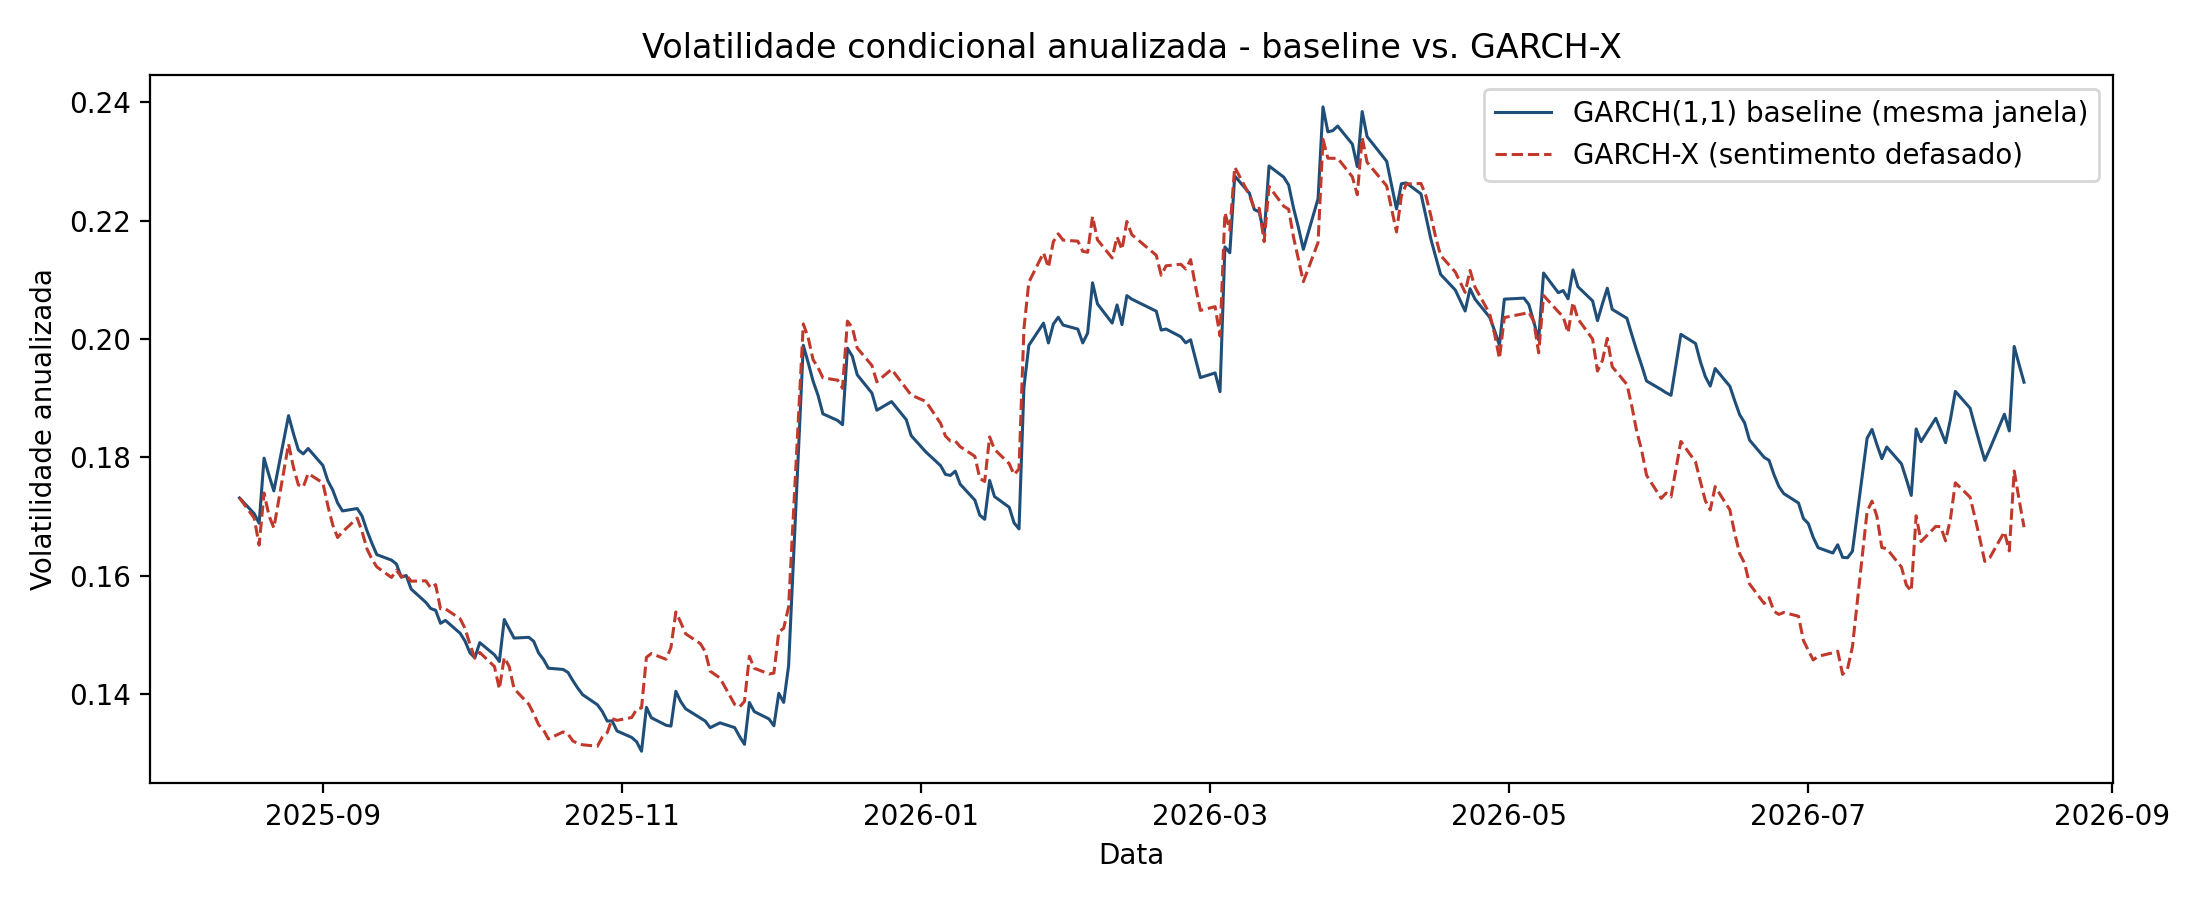
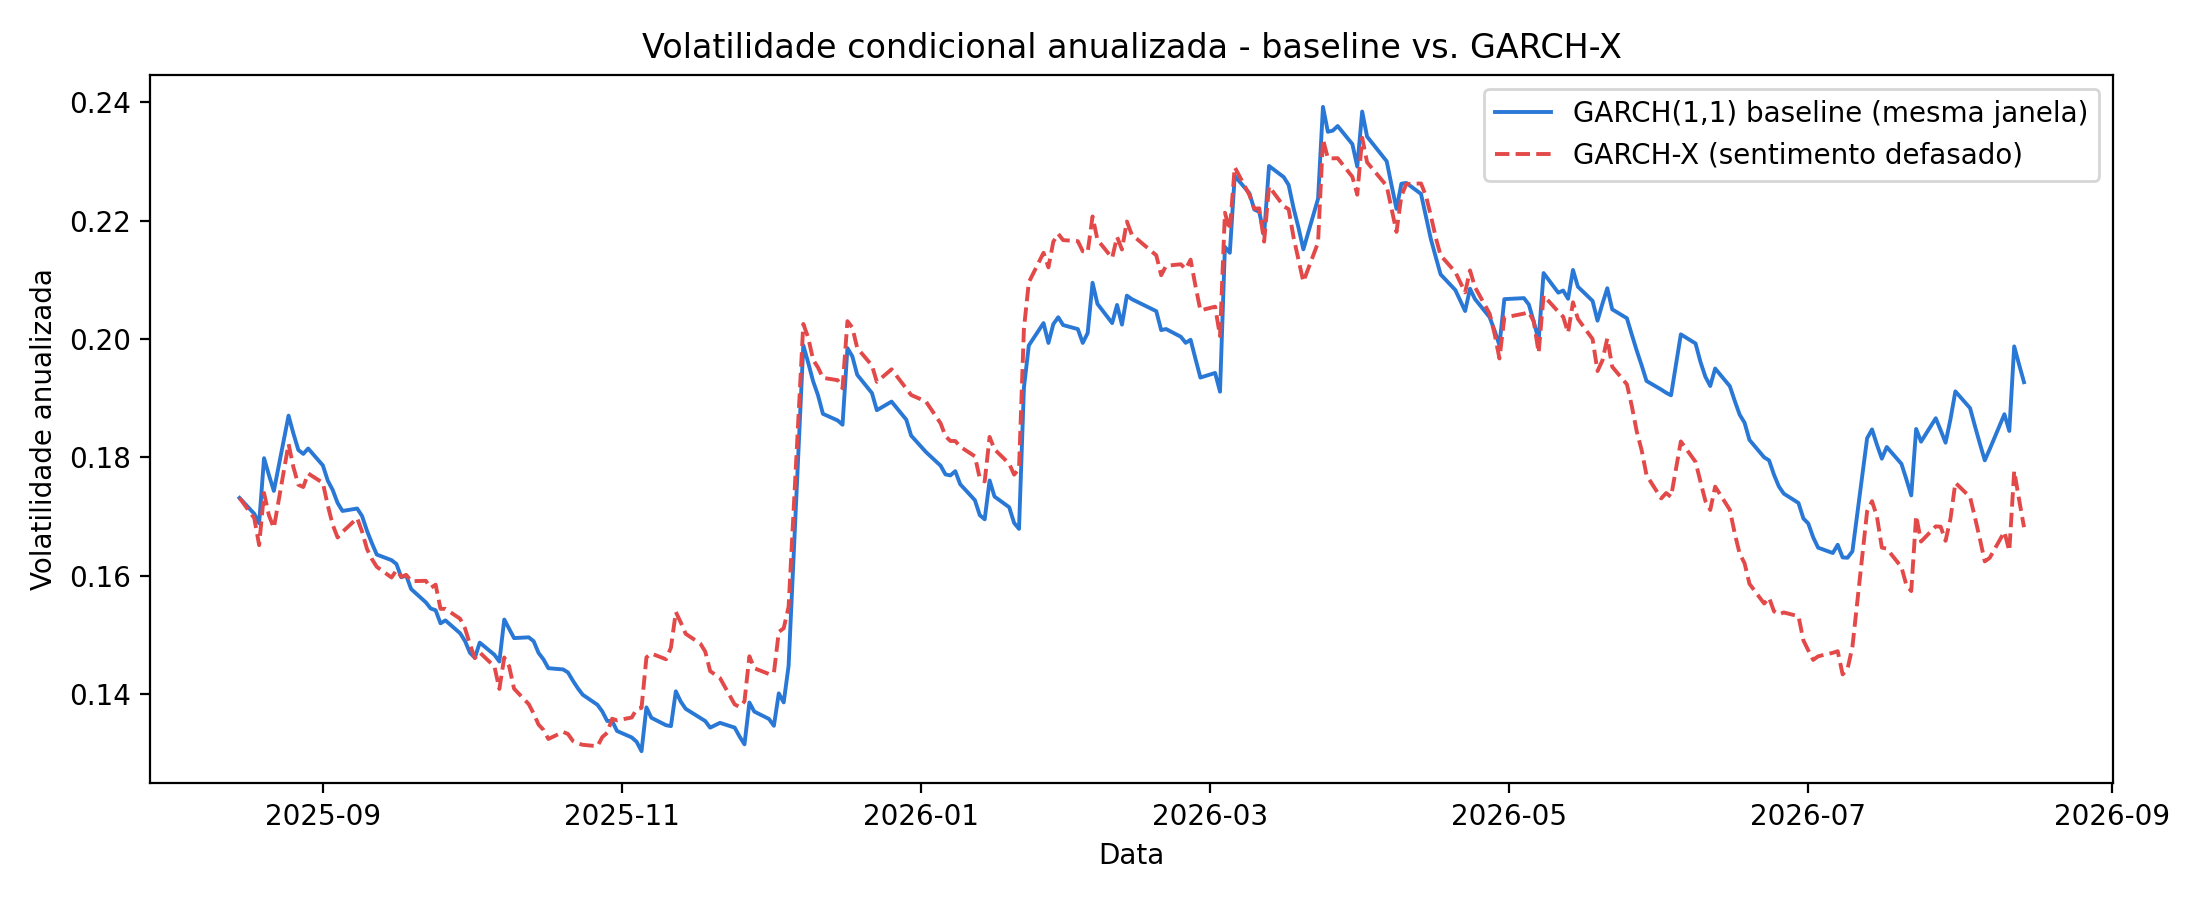
feat: visualizacoes finais (sentimento vs vol, backtest OOS, tabela comparativa)

diff --git a/src/visualizations.py b/src/visualizations.py
@@ -1,0 +1,132 @@
+"""
+Passo 6 - Visualizacoes finais para o relatorio (max 5 paginas, visual).
+
+Paleta: azul #2a78d6 (baseline / serie 1) e vermelho #e34948 (GARCH-X /
+serie 8) - par adjacente validado para contraste de daltonismo. Sentimento
+e volatilidade NUNCA no mesmo eixo (dual-axis e o erro #1 de grafico) -
+uso subplots empilhados compartilhando o eixo x.
+"""
+
+import os
+import sys
+
+import matplotlib.pyplot as plt
+import numpy as np
+import pandas as pd
+
+sys.path.insert(0, os.path.dirname(__file__))
+from garch_x import load_aligned_data
+
+DATA_PROCESSED_DIR = "data/processed"
+OUTPUTS_DIR = "outputs"
+
+BLUE = "#2a78d6"
+RED = "#e34948"
+INK = "#0b0b0b"
+MUTED = "#898781"
+GRID = "#e1e0d9"
+
+
+def plot_sentiment_vs_volatility():
+    df = load_aligned_data()
+    rv_daily_var = (df["log_return"] * 100) ** 2
+    rv_annual_vol = np.sqrt(rv_daily_var.rolling(5, min_periods=5).mean()) / 100 * np.sqrt(252)
+
+    fig, (ax1, ax2) = plt.subplots(2, 1, figsize=(11, 6), sharex=True, height_ratios=[1, 1.2])
+
+    colors = np.where(df["sentiment_score"] >= 0, BLUE, RED)
+    ax1.bar(df.index, df["sentiment_score"], color=colors, width=1.2)
+    ax1.axhline(0, color=MUTED, linewidth=0.8)
+    ax1.set_ylabel("Score de sentimento\n(-1 a +1)")
+    ax1.set_title("Sentimento diario (manchetes financeiras) vs. volatilidade realizada - Ibovespa")
+    ax1.set_ylim(-1, 1)
+    ax1.grid(axis="y", color=GRID, linewidth=0.6)
+
+    ax2.plot(df.index, rv_annual_vol, color=INK, linewidth=1.2)
+    ax2.set_ylabel("Vol. realizada anualizada\n(janela movel 5 dias)")
+    ax2.set_xlabel("Data")
+    ax2.grid(axis="y", color=GRID, linewidth=0.6)
+
+    fig.tight_layout()
+    out = f"{OUTPUTS_DIR}/04_sentiment_vs_volatility.png"
+    fig.savefig(out, dpi=220)
+    plt.close(fig)
+    print(f"Salvo: {out}")
+
+
+def plot_backtest_comparison():
+    df = pd.read_csv(f"{DATA_PROCESSED_DIR}/backtest_forecasts.csv", index_col=0, parse_dates=True)
+
+    fig, ax = plt.subplots(figsize=(11, 4.8))
+    ax.plot(df.index, df["realized_vol"], label="Volatilidade realizada (RV, janela 5d)", color=INK, linewidth=1.6)
+    ax.plot(df.index, df["forecast_baseline"], label="Previsao GARCH(1,1) baseline", color=BLUE, linewidth=1.3, linestyle="--")
+    ax.plot(df.index, df["forecast_garchx"], label="Previsao GARCH-X (sentimento)", color=RED, linewidth=1.3, linestyle="--")
+    ax.set_title("Backtest out-of-sample: previsao de volatilidade vs. realizada (periodo de teste)")
+    ax.set_xlabel("Data")
+    ax.set_ylabel("Volatilidade anualizada")
+    ax.legend()
+    ax.grid(axis="y", color=GRID, linewidth=0.6)
+    fig.tight_layout()
+    out = f"{OUTPUTS_DIR}/05_backtest_oos_comparison.png"
+    fig.savefig(out, dpi=220)
+    plt.close(fig)
+    print(f"Salvo: {out}")
+
+
+def plot_metrics_table():
+    base_params = pd.read_csv(f"{DATA_PROCESSED_DIR}/garch_baseline_samewindow_params.csv", index_col=0).iloc[:, 0]
+    x_params = pd.read_csv(f"{DATA_PROCESSED_DIR}/garch_garchx_samewindow_params.csv", index_col=0).iloc[:, 0]
+    backtest = pd.read_csv(f"{DATA_PROCESSED_DIR}/backtest_metrics.csv", index_col=0)
+
+    with open(f"{DATA_PROCESSED_DIR}/backtest_summary.txt", encoding="utf-8") as f:
+        summary_text = f.read()
+    dm_line = [l for l in summary_text.splitlines() if l.startswith("Diebold-Mariano")][0]
+
+    persist_base = base_params["alpha[1]"] + base_params["beta[1]"]
+    persist_x = x_params["alpha[1]"] + x_params["beta[1]"]
+
+    rows = [
+        ["alpha (reacao a choques)", f"{base_params['alpha[1]']:.4f}", f"{x_params['alpha[1]']:.4f}"],
+        ["beta (persistencia)", f"{base_params['beta[1]']:.4f}", f"{x_params['beta[1]']:.4f}"],
+        ["alpha + beta", f"{persist_base:.4f}", f"{persist_x:.4f}"],
+        ["gamma (sentimento defasado)", "-", f"{x_params['gamma_sentiment']:.4f}"],
+        ["MSE out-of-sample", f"{backtest.loc['baseline', 'MSE']:.4f}", f"{backtest.loc['garchx', 'MSE']:.4f}"],
+        ["MAE out-of-sample", f"{backtest.loc['baseline', 'MAE']:.4f}", f"{backtest.loc['garchx', 'MAE']:.4f}"],
+        ["QLIKE out-of-sample", f"{backtest.loc['baseline', 'QLIKE']:.4f}", f"{backtest.loc['garchx', 'QLIKE']:.4f}"],
+    ]
+
+    fig, ax = plt.subplots(figsize=(9, 3.6))
+    ax.axis("off")
+    table = ax.table(
+        cellText=rows,
+        colLabels=["Metrica", "GARCH(1,1) baseline", "GARCH-X (sentimento)"],
+        cellLoc="center",
+        loc="center",
+    )
+    table.auto_set_font_size(False)
+    table.set_fontsize(10)
+    table.scale(1, 1.8)
+    for (row, col), cell in table.get_celld().items():
+        cell.set_edgecolor(GRID)
+        if row == 0:
+            cell.set_text_props(weight="bold", color="white")
+            cell.set_facecolor(INK)
+        else:
+            cell.set_facecolor("#fcfcfb")
+
+    ax.set_title("Comparativo GARCH baseline vs. GARCH-X (mesma janela, 250 pregoes)\n" + dm_line, fontsize=10, pad=20)
+    fig.tight_layout()
+    out = f"{OUTPUTS_DIR}/06_metrics_table.png"
+    fig.savefig(out, dpi=220, bbox_inches="tight")
+    plt.close(fig)
+    print(f"Salvo: {out}")
+
+
+def main():
+    plot_sentiment_vs_volatility()
+    plot_backtest_comparison()
+    plot_metrics_table()
+
+
+if __name__ == "__main__":
+    main()

diff --git a/src/garch_x.py b/src/garch_x.py
@@ -77,8 +77,8 @@ def plot_comparison(df: pd.DataFrame, sigma2_baseline, sigma2_x, out_path: str) 
     vol_x = (sigma2_x**0.5 / SCALE) * (252**0.5)
 
     fig, ax = plt.subplots(figsize=(11, 4.5))
-    ax.plot(df.index, vol_baseline, label="GARCH(1,1) baseline (mesma janela)", color="#1f4e79", linewidth=1.1)
-    ax.plot(df.index, vol_x, label="GARCH-X (sentimento defasado)", color="#c0392b", linewidth=1.1, linestyle="--")
+    ax.plot(df.index, vol_baseline, label="GARCH(1,1) baseline (mesma janela)", color="#2a78d6", linewidth=1.4)
+    ax.plot(df.index, vol_x, label="GARCH-X (sentimento defasado)", color="#e34948", linewidth=1.4, linestyle="--")
     ax.set_title("Volatilidade condicional anualizada - baseline vs. GARCH-X")
     ax.set_xlabel("Data")
     ax.set_ylabel("Volatilidade anualizada")
